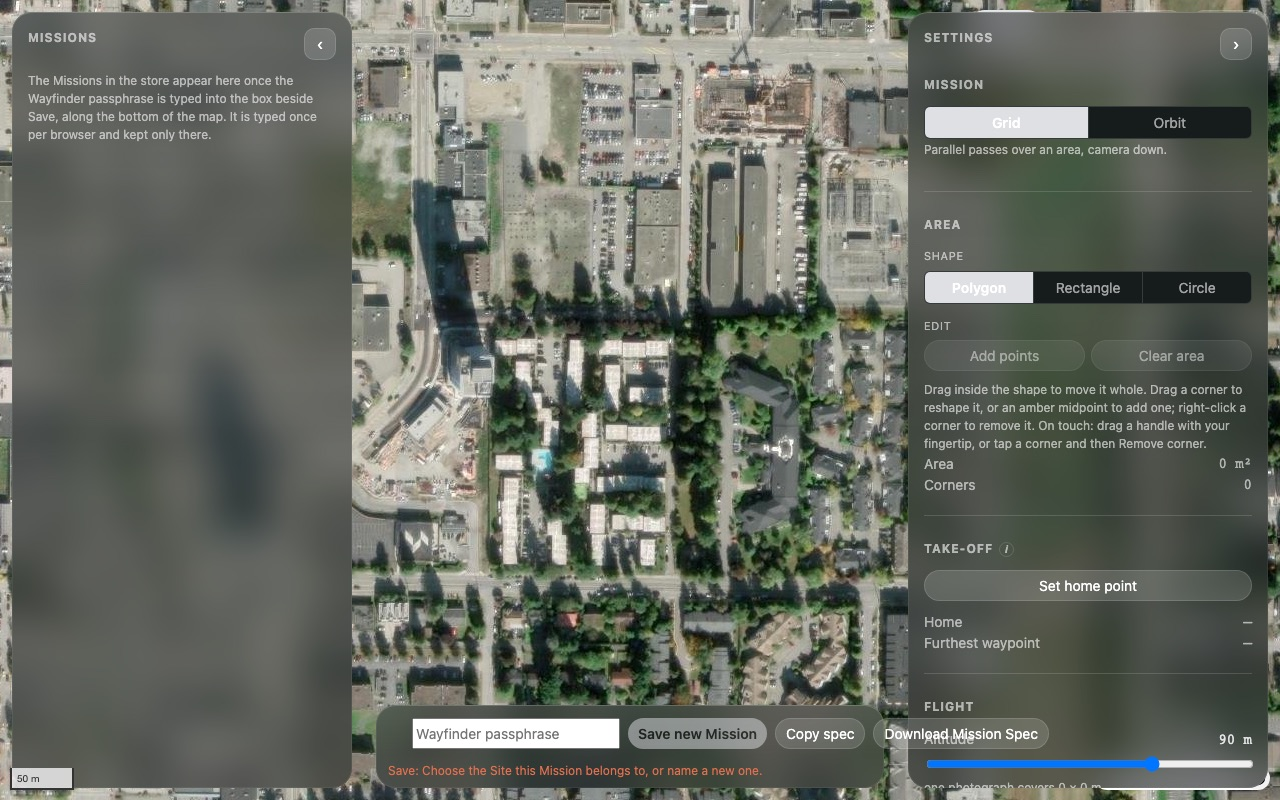
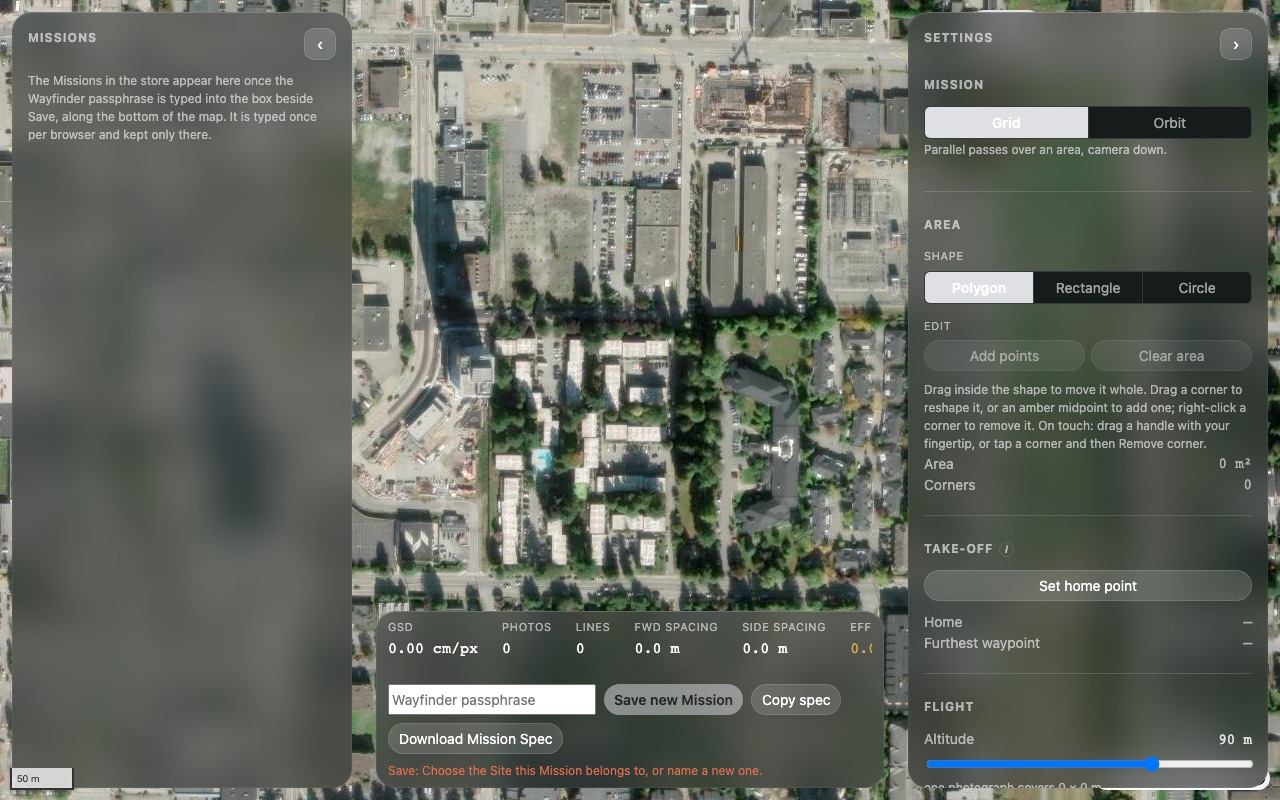
UI-3: wrap the summary inside its floating panel; refreshed shots (#180)

Changed region(s): [[0.2812, 0.75, 0.8438, 0.9688]]

diff --git a/web/components/SummaryBar.module.css b/web/components/SummaryBar.module.css
@@ -50,6 +50,20 @@
   flex: none;
 }
 
+/* The wide-screen summary floats between the two open panels, so it can be
+   narrower than one line. Let the two groups take a line each instead of
+   crushing the figures to nothing; full width, nothing wraps. */
+@media (min-width: 1000px) {
+  .bar {
+    flex-wrap: wrap;
+  }
+
+  .actions {
+    flex: 0 1 auto;
+    flex-wrap: wrap;
+  }
+}
+
 @media (max-width: 999px) {
   .bar {
     flex-direction: column;
